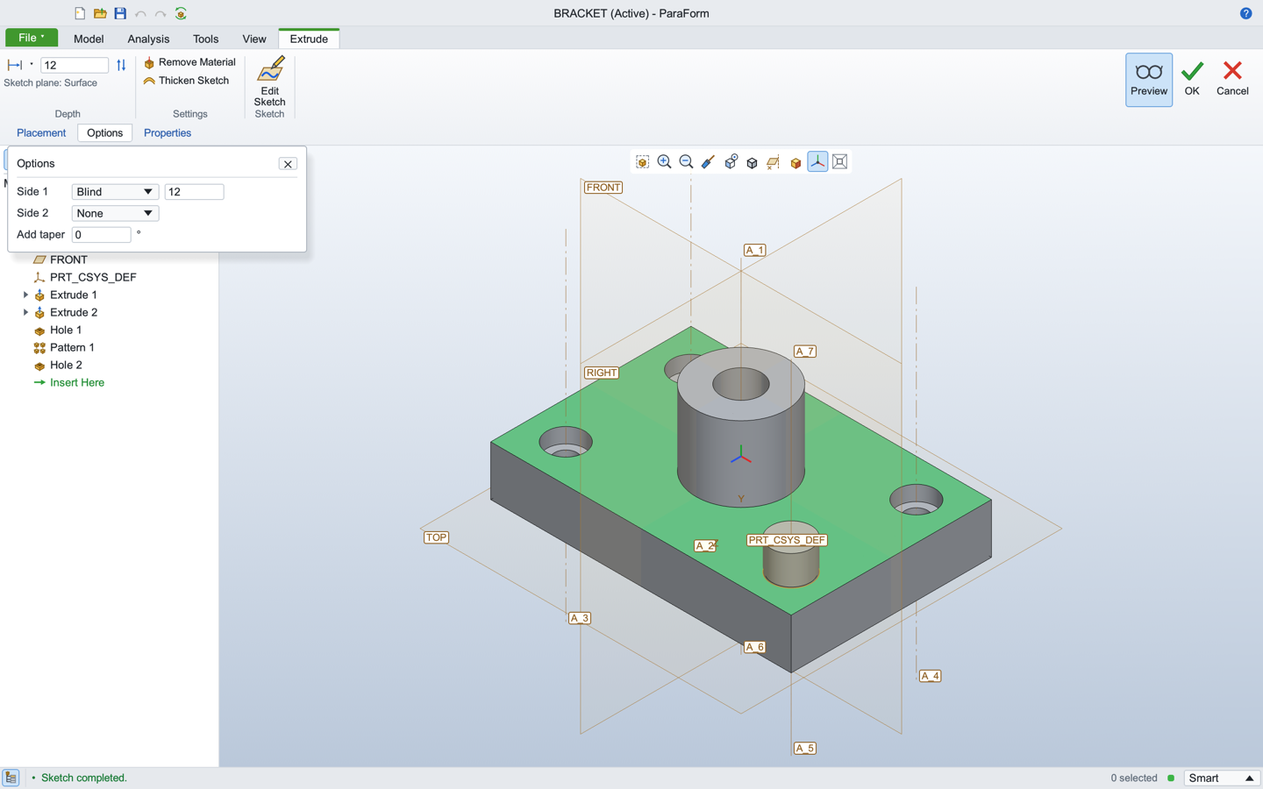
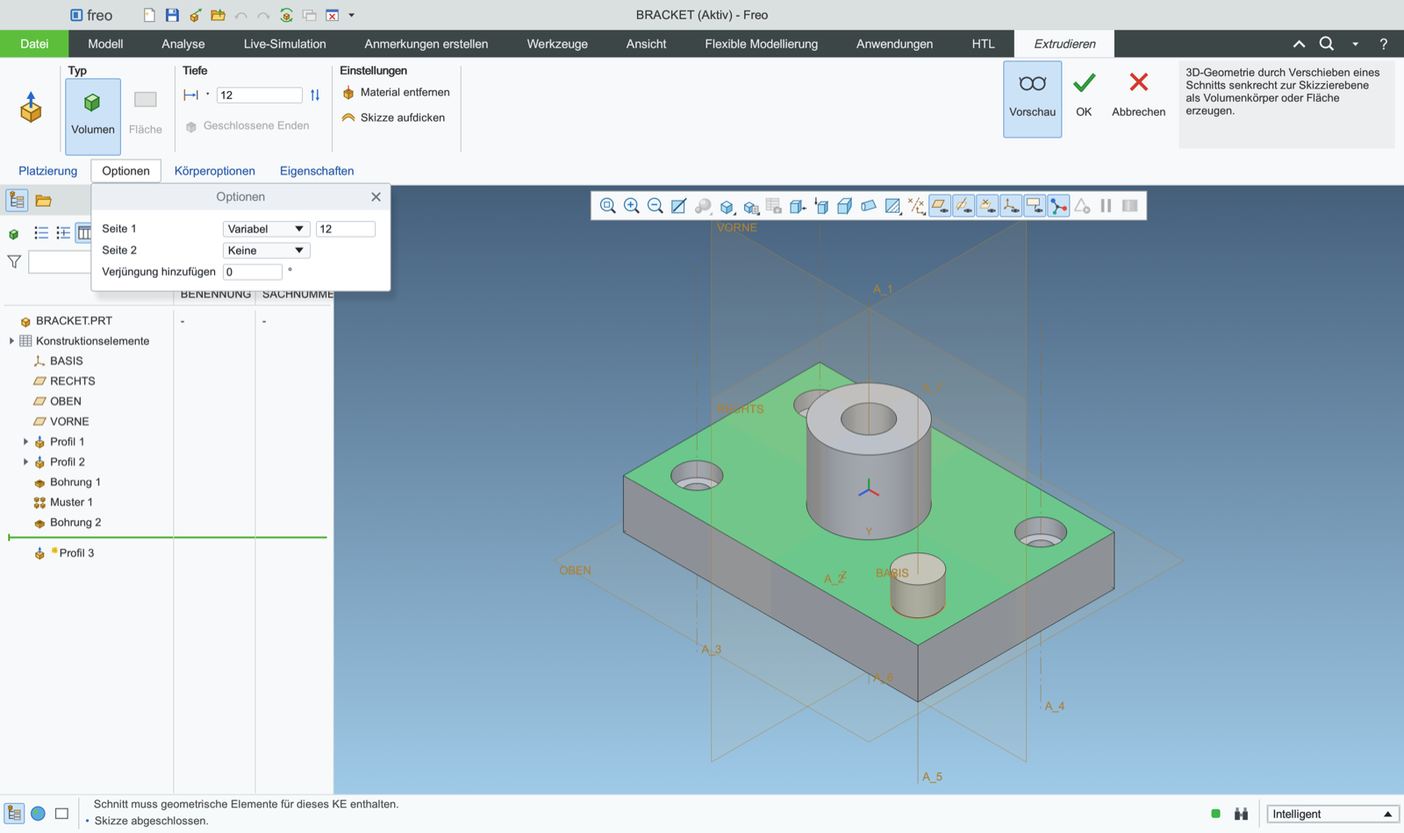
Rewrite the README and regenerate its screenshots
The README still described the first version: an English UI, no
simulation, surfaces, 3D annotations or STEP import. It now covers the
German Creo 10 interface, all feature kinds, the sketcher tools and
palette, Live-Simulation, 3D annotations, import and export formats,
and an honest scope section.

All screenshots are regenerated from the demo scenes, with new ones for
Live-Simulation, 3D annotations and the palette. The two rendered-PDF
images from the first version are removed.

diff --git a/README.md b/README.md
@@ -1,27 +1,37 @@
 # Freo — Creo-style parametric CAD for macOS (Rust)
 
-Freo is a native, history-based parametric 3D modeller for macOS modelled on the
-PTC Creo Parametric workflow: ribbon → feature dashboard → sketcher → regenerate, with a
-model tree, datum features, references, parameters and relations, assemblies built
-from placement constraints, and associative 2D drawings. It is written entirely in Rust
-(own geometry kernel, constraint solvers, hidden-line removal and OpenGL viewport on
-egui/eframe).
+Freo is a native, history-based parametric 3D modeller for macOS that follows the PTC Creo
+Parametric 10 workflow and look, with Creo's German user interface: ribbon → feature tab →
+sketcher → regenerate. It has a model tree, datum features, parameters and relations,
+assemblies built from placement constraints, associative 2D drawings, 3D annotations, a
+Live-Simulation tab and an MCP server for AI assistants.
 
-![Creo-style workspace](docs/screens/bracket.png)
+It is written entirely in Rust: its own geometry kernel, constraint solvers, hidden-line
+removal, simulation solvers, STEP reader and OpenGL viewport on egui/eframe.
 
-| Sketching in 3D (weak + strong dims) | Extrude tab with Options panel | Edit Dimensions on the model |
+![Freo workspace](docs/screens/bracket.png)
+
+| Sketching in 3D (weak + strong dimensions) | Skizzierer-Palette | Extrude tab with Options panel |
 |---|---|---|
-| ![](docs/screens/sketch.png) | ![](docs/screens/extrude.png) | ![](docs/screens/editdims.png) |
-| **File menu** | **Datum Plane dialog** | **Selection mini toolbar** |
-| ![](docs/screens/file.png) | ![](docs/screens/dialog.png) | ![](docs/screens/mini.png) |
-| **Round sets, variable radius** | **Standard (ISO/UNC) tapped hole** | **Fill pattern in a sketched region** |
-| ![](docs/screens/roundsets.png) | ![](docs/screens/stdhole.png) | ![](docs/screens/fillpattern.png) |
+| ![](docs/screens/sketch.png) | ![](docs/screens/palette.png) | ![](docs/screens/extrude.png) |
+| **Edit Dimensions on the model** | **File menu** | **Datum Plane dialog** |
+| ![](docs/screens/editdims.png) | ![](docs/screens/file.png) | ![](docs/screens/dialog.png) |
+| **Selection mini toolbar** | **Round sets, variable radius** | **Standard (ISO/UNC) tapped hole** |
+| ![](docs/screens/mini.png) | ![](docs/screens/roundsets.png) | ![](docs/screens/stdhole.png) |
+| **Fill pattern in a sketched region** | **Extrude up to the next surface** | **3D annotations** |
+| ![](docs/screens/fillpattern.png) | ![](docs/screens/tonext.png) | ![](docs/screens/annot3d.png) |
+
+### Live-Simulation
+
+| Structural (von Mises stress) | Flow around the part | Thermal |
+|---|---|---|
+| ![](docs/screens/sim_structural.png) | ![](docs/screens/sim_fluid.png) | ![](docs/screens/sim_thermal.png) |
 
 ### Assemblies
 
 ![Assembly](docs/screens/assembly.png)
 
-| Component Placement dashboard | Exploded view | Bill of Materials + mass properties | Component opened in context |
+| Component Placement tab | Exploded view | Bill of Materials + mass properties | Component opened in context |
 |---|---|---|---|
 | ![](docs/screens/placement.png) | ![](docs/screens/explode.png) | ![](docs/screens/bom.png) | ![](docs/screens/openpart.png) |
 
@@ -29,40 +39,51 @@ egui/eframe).
 
 ![Part drawing](docs/screens/drawing.png)
 
-| Assembly drawing: BOM table + balloons | Created dimensions (Annotate tab) | Published PDF |
-|---|---|---|
-| ![](docs/screens/drawing_asm.png) | ![](docs/screens/drawing_annotate.png) | ![](docs/screens/drawing_pdf.png) |
-| **Geometric Tolerance tab** | **Dimension tab: ISO fit H7** | **GD&T published to PDF** |
-| ![](docs/screens/drawing_gdt.png) | ![](docs/screens/drawing_tolerance.png) | ![](docs/screens/drawing_gdt_pdf.png) |
+| Assembly drawing: BOM table + balloons | Created dimensions | Geometric tolerances | Dimension tab: ISO fit H7 |
+|---|---|---|---|
+| ![](docs/screens/drawing_asm.png) | ![](docs/screens/drawing_annotate.png) | ![](docs/screens/drawing_gdt.png) | ![](docs/screens/drawing_tolerance.png) |
 
 ## Interface
 
-The UI follows Creo Parametric's layout and workflow:
+The UI follows Creo Parametric 10 (German). Command names below are given in English, with
+the German label where it helps to find the command.
 
-- Integrated title bar with the **Quick Access Toolbar** (New, Open, Save, Undo, Redo, Regenerate) and the "PRT0001 (Active)" title
-- Green **File** tab with a Creo-style file menu and recently opened files; **Model / Analysis / Tools / View** ribbon tabs with Creo's groups, large/small buttons and vector icons in Creo's style
-- **Contextual feature tabs** (Extrude, Revolve, Hole, Round, …) with Placement / Options / Properties slide-down panels and Preview / OK / Cancel; **dialog boxes** for Datum Plane, Axis, Point and Sketch setup
-- **Sketch tab** with Creo's Setup, Operations, Datum, Sketching, Editing, Constrain, Dimension, Inspect and Close groups; sketching happens **in the 3D graphics window** on the sketch plane, with Sketch View and sketcher display filters
-- **Weak dimensions**: sketches are always fully dimensioned automatically (light blue); adding a strong dimension or constraint replaces the corresponding weak one, and modifying a weak dimension makes it strong
-- **Navigator** with the Model Tree (RIGHT/TOP/FRONT/PRT_CSYS_DEF, expandable Section children, failed/suppressed markers, draggable Insert Here) and a Folder Browser
-- **Graphics window**: in-graphics toolbar, two-sided datum planes with tags, dash-dot axes, spin center, green selection / blue preselection, the **mini toolbar** on selection, and **double-click Edit Dimensions** with in-place value editing
-- Creo-style **status bar**: message area, regeneration status indicator, placement status, selection count and selection filter
-- Creo's **New** dialog (Part / Assembly, sub-types) and **Create Component** dialog
+- **Startseite** (home screen) before a model is open: common folders, recent files, New and Open
+- Title bar with the **Quick Access Toolbar** (New, Open, Save, Undo, Redo, Regenerate, windows, close) and the "BRACKET (Aktiv)" title
+- Green **Datei** tab with Creo's file menu, recent files and direct export; ribbon tabs **Modell, Analyse, Live-Simulation, Anmerkungen erstellen, Werkzeuge, Ansicht, Flexible Modellierung, Anwendungen** and **HTL**, with Creo's groups, large/small buttons, group overflow menus and vector icons
+- **Contextual feature tabs** (Profil/Extrude, Drehen/Revolve, Bohrung/Hole, Rundung/Round, …) with Placement / Options / Properties slide-down panels and Preview / OK / Cancel; **dialog boxes** for datum plane, axis, point, coordinate system and sketch setup
+- **Skizze** tab with Creo's Setup, Einfügen, Operationen, Bezug, Skizze, Editieren, Bedingung definieren, Bemaßung, Prüfen and Schließen groups; sketching happens **in the 3D graphics window** on the sketch plane
+- **Weak dimensions**: a sketch is always fully dimensioned automatically (light blue); a strong dimension or constraint replaces the matching weak one, and modifying a weak dimension makes it strong
+- **Navigator** with the model tree (default datums, expandable sections, failed/suppressed markers, draggable insert marker, columns, filter) and a folder browser
+- **Graphics window**: Creo's graphics toolbar (customisable by right-click), two-sided datum planes with tags, dash-dot axes, spin centre, green selection / blue preselection, the three-row **mini toolbar** next to a selection, and **double-click Edit Dimensions** with in-place value editing
+- **Status bar**: message area, regeneration status, placement status, selection count and selection filter
+- Creo's **Neu** dialog (part / assembly / drawing with sub-types), **Datei öffnen** dialog with preview and file operations, and the **Create Component** dialog
+- Drop-down menus are as wide as their text and slightly rounded
+- Flexible Modellierung and some commands on Anwendungen and HTL are shown for layout parity but greyed out (see [Scope](#scope-compared-with-creo))
 
 ## Build & run
+
+Requires macOS 11 or later and a current stable Rust toolchain.
 
 ```bash
 cargo run --release
 ```
 
-Build a double-clickable `Freo.app` (with icon and `.pfprt` document type):
+Build a double-clickable `Freo.app` (with icon and document types) in the project root:
 
 ```bash
 ./scripts/bundle.sh
 ```
 
-Open a model directly: `freo part.pfprt` / `freo asm0001.pfasm`, or drag a file onto
-the window (a part dropped onto an open assembly is assembled).
+Copy `Freo.app` to `/Applications` to install it. The bundle is not notarised; after copying,
+sign it ad hoc so macOS starts it:
+
+```bash
+codesign --force --deep -s - /Applications/Freo.app
+```
+
+Open a model directly with `freo part.pfprt` / `freo asm0001.pfasm`, from Finder, or by
+dragging a file onto the window (a part dropped onto an open assembly is assembled).
 
 ## AI assistants (MCP)
 
@@ -156,60 +177,86 @@ for all agents). It only shows up once `mcp.servers.freo` is configured. Check i
 
 ## Features
 
-**Modelling (Model tab)**
-- Default datums FRONT / TOP / RIGHT / PRT_CSYS_DEF
-- Datum plane (offset, through axis at angle), datum axis (two planes, world, normal to plane), datum point, sketch (curves)
-- Extrude: add/remove, blind / symmetric / to next / to selected / through all, second side, flip, taper (draft) angle, thicken (thin wall)
-- Revolve: add/remove, angle, symmetric, flip — axis is the sketch centerline
-- Sweep: sketched trajectory + section (section plane normal to the trajectory start), mitered corners
-- Blend: parallel blend of any number of sections with offsets
-- Hole: simple / counterbore / countersink / **standard** (ISO metric coarse M2–M24 and UNC #4-40 – 1/2-13 tables: tapped with tap drill and **cosmetic thread**, or clearance close/medium/free), blind with drill tip or through all, placed on a plane or surface
-- Round with **multiple sets**, each with its own radius or a **variable radius** (start → end); chamfer (D×D, D1×D2, angle×D) on straight and curved edges, convex and concave
-- Shell with removed surfaces, draft about a hinge plane
-- Pattern: direction (1 or 2 directions), axial, **fill** (square / diamond / triangle grid inside a sketched region, spacing, margin, rotation) and **curve** (count or spacing along a sketched curve, optionally following it); mirror selected features or all geometry
+**Modelling (Modell tab)**
+- Default datums RECHTS / OBEN / VORNE (RIGHT / TOP / FRONT) and the BASIS coordinate system
+- Datum plane (offset, through an axis at an angle), datum axis (two planes, world, normal to a plane), datum point, coordinate system, datum curve through points (spline or polyline), sketch
+- Extrude: add/remove, blind / symmetric / to next / to selected / through all, second side, flip, taper angle, thicken (thin wall), solid or surface
+- Revolve: add/remove, angle, symmetric, flip; the axis is the sketch centerline
+- Sweep: sketched trajectory + section, mitred corners; **helical sweep** (springs, threads; pitch, left/right-handed)
+- Blend: parallel blend of any number of sections with offsets, and **rotational blend**
+- Hole: simple / counterbore / countersink / **standard** (ISO metric coarse M2–M24 and UNC #4-40 – 1/2-13: tapped with tap drill and cosmetic thread, or clearance close/medium/free), blind with drill tip or through all
+- **Cosmetic thread** on a cylindrical surface, **rib** from an open sketch
+- Round with **multiple sets**, each with its own radius or a **variable radius**; **Auto Round**; chamfer (D×D, D1×D2, angle×D) on straight and curved edges, and corner chamfer
+- Shell with removed surfaces, draft about a hinge plane (also variable)
+- Pattern: direction (1 or 2 directions), axis, **fill** (square / diamond / triangle grid in a sketched region), **curve** (count or spacing along a sketched curve) and **table**; geometry pattern; mirror selected features or all geometry
+- **Surfaces (quilts)**: fill, offset, thicken, solidify, merge, trim, intersect, project, extend, split, copy, replace, boundary blend, style and freestyle
+- **Bodies**: new body, union, subtract, intersect and split
+- Copy / paste of features, user-defined features (UDF), copy geometry, shrinkwrap, family table, regeneration manager
 - Automatic axes (A_n) for holes, revolves, cylinders and patterned holes
 
 **Sketcher**
-- Line chains, corner/centre rectangle, centre/3-point circle, 3-point/centre arc, **ellipse**, **spline** (interpolating), palette polygon, fillet, chamfer, centerline, point, project, delete segment (**trims at intersections**), divide, corner, mirror, construction mode, Modify dialog, Feature Requirements
-- Snapping to points, entities, projected model edges and sketch references, optional grid snap
+- Lines (chain, tangent to two circles), rectangles (corner, slanted, centre, parallelogram), circles (centre, concentric, 3-point, 3-tangent), arcs (3-point, centre, 3-tangent, concentric, conic), ellipses (centre, axis ends), interpolating splines
+- Fillets (circular, elliptical, with or without keeping the corner as construction lines), chamfers, centerlines (also tangent), points, coordinate systems, **text** along a line with the bundled or any installed font
+- **Skizzierer-Palette**: nine tabs of ready-made shapes: polygons (3 to 20 sides), stars, C/I/L/T profiles, slots, ovals, crosses, rounded rectangles, waves, bore half-sections, dovetail, and real-size steel sections (rectangular hollow sections, L angles, U channels). Click a shape, click in the sketch, then scale and rotate it
+- **Import** of DXF, IGES and Adobe Illustrator files into the sketch
+- Offset, thicken, project model edges, delete segment (trims at intersections), divide, corner, mirror, rotate/resize, replace, cut / copy / paste, construction mode
+- Snapping to points, entities, projected model edges and sketch references, optional grid snap; a References dialog for edges, planes, axes and points
 - Automatic H/V constraints while drawing; constraints H, V, ⊥, ∥, =, tangent, coincident/point-on, midpoint, symmetric, fix
-- Dimensions: length, horizontal/vertical/aligned distance, point–line, radius, diameter, angle; inline editing with numbers or parameter expressions
-- Levenberg–Marquardt solver with live dragging, DOF readout, redundant/conflicting constraint rejection, open-end highlighting, closed-loop shading
+- Dimensions: length, horizontal/vertical/aligned distance, point–line, radius, diameter, angle, perimeter, baseline (ordinate) and reference dimensions; lockable; inline editing with numbers or parameter expressions; Modify dialog
+- Checks: overlapping geometry, intersections, branches, open ends, shaded closed loops, Feature Requirements; info on intersection point, tangency point and entity
+- Levenberg–Marquardt solver with live dragging, DOF readout and rejection of redundant or conflicting constraints
 
 **Model tree & editing**
-- Edit Dimensions (double-click on the model), Edit Definition, rename, suppress/resume, hide/show, delete with dependent children, reorder (parent/child aware), Insert Here (rollback), failed features flagged with the reason
+- Edit Dimensions (double-click on the model), Edit Definition, rename, suppress/resume, hide/show, delete with dependent children, reorder (parent/child aware), insert mode (rollback), failed features flagged with the reason
 - Undo/redo, regenerate, object-action workflow (preselect a plane/face/edge, then pick the tool) and action-object collectors
-- Parameters, relations (`H = W / 3`, functions, comments) and dimensions driven by expressions — sketch dimensions too
+- Parameters, relations (`H = W / 3`, functions, comments) and dimensions driven by expressions, sketch dimensions included
+- Werkzeuge tab: search features by name, reference viewer (parents and children), model player (replays the feature history), feature and model info, message log
 
 **Viewing & analysis**
-- Spin/pan/zoom (mouse, trackpad, pinch), standard orientations, refit, perspective
-- Shading with edges, shading, hidden line, no hidden, wireframe, transparency, appearance colours
+- Spin/pan/zoom (mouse, trackpad, pinch), standard and saved orientations, refit, perspective
+- Display styles: shading with reflections, shading with edges, shading, hidden line, no hidden, wireframe; transparency, appearance colours
 - Datum display toggles, section view through any datum plane with offset
-- Pre-selection highlighting, selection filters (smart, feature, surface, edge, datum), context menus
-- Measure (area, length, diameter, distance, angle), mass properties (volume, area, mass, COG, inertia tensor, bounding box) with material densities, model info
+- Pre-selection highlighting, selection filters, context menus
+- Measure (area, length, diameter, distance, angle), mass properties (volume, area, mass, centre of gravity, inertia tensor, bounding box) with material densities, thickness and short-edge checks, model report
+
+**Live-Simulation**
+- Four study types on the part: **structural** (linear statics), **thermal** (steady heat conduction), **modal** (natural frequencies and mode shapes) and **fluid** (flow around or through the part)
+- Constraints and loads picked on faces: fixed, displacement, frictionless, symmetry; force, moment, pressure, gravity, centrifugal, linear acceleration; temperature, convection, heat flow, heat flux; inlet, outlet, wind
+- The solver runs beside the UI on a worker thread and restarts when the model or the study changes
+- Results on the model: fringe plot with legend (von Mises stress, displacement, safety factor, temperature, heat flux, flow velocity), animated deformation with scale, stream lines, probes, and a simulation report
+- Solvers: voxel finite elements with matrix-free conjugate gradients (statics, heat, modes) and a lattice Boltzmann method (D3Q19) for flow, checked against textbook results in `tests/simulation.rs`
+
+**3D annotations (Anmerkungen erstellen)**
+- Dimensions, ordinate and reference dimensions, tolerances, notes, surface finish, datum feature symbols and datum targets, geometric tolerances, placed on annotation planes (flat to screen, FRONT, TOP, RIGHT)
+- Annotation features group them in the model tree; move, reattach, remove, clean up dimensions
+- Combination states with Creo's state tabs below the graphics window, and a model grid
 
 **Assemblies (`.pfasm`)**
-- New ▸ Assembly with ASM_RIGHT / ASM_TOP / ASM_FRONT / ASM_DEF_CSYS; **Assemble** part files (also by drag-and-drop or from the Folder Browser), **Create** a new part in the assembly, repeat instances
-- **Component Placement** dashboard: Automatic, Coincident, Distance, Angle Offset, Parallel, Normal, Default and Fix constraints between planar surfaces, cylindrical surfaces (their axes), datum planes, axes, points and straight edges; offset, Flip, constraint list panel, **Allow Assumptions**, live status (No Constraints / Partially Constrained (n DOF) / Fully Constrained / Constraints invalid)
+- New ▸ Assembly with ASM_RIGHT / ASM_TOP / ASM_FRONT / ASM_DEF_CSYS; **assemble** part files (also by drag-and-drop or from the folder browser), **create** a new part in the assembly, repeat instances
+- **Component Placement** tab: Automatic, Coincident, Distance, Angle Offset, Parallel, Normal, Default and Fix constraints between planar surfaces, cylindrical surfaces (their axes), datum planes, axes, points and straight edges; offset, flip, constraint list, **Allow Assumptions**, live status (no constraints / partially constrained (n DOF) / fully constrained / invalid)
 - Drag the component being placed to move it (⇧-drag rotates); the free degrees of freedom follow the mouse while the constraints hold
 - Placement solver: Levenberg–Marquardt over each component's rigid transform, solved in model-tree order, with rank-based DOF status; references are stored in part coordinates and follow part edits
-- Assembly model tree with placement status markers, Placement folder with the constraints and each component's features; Edit Definition, Open, Hide, Suppress, Delete (dependent constraints are removed), Assemble Another Instance
-- **Open a component** to edit its features with the rest of the assembly drawn as transparent context, then **Return to Assembly**; saving writes modified parts back to their files
+- Assembly model tree with placement status markers, the constraints and each component's features; Edit Definition, Open, Hide, Suppress, Delete, Assemble Another Instance
+- **Open a component** to edit its features with the rest of the assembly drawn as transparent context, then return to the assembly; saving writes modified parts back to their files
 - **Exploded view** with adjustable distance, **Bill of Materials** (quantities, volumes, masses, CSV export), **Global Interference**, assembly **mass properties** from each part's density, per-part colours
 
 **Drawings (`.pfdrw`)**
-- New ▸ Drawing with Creo's New Drawing dialog: default model (the part or assembly in session, or browse), template with front / top / right projection views and a pictorial view scaled to fit, or empty with format; ISO A4–A0 and ANSI A–E sheets, landscape or portrait, third- or first-angle projection
+- New ▸ Drawing with Creo's dialog: default model (the part or assembly in session, or browse), template with front / top / right projection views and a pictorial view scaled to fit, or empty with format; ISO A4–A0 and ANSI A–E sheets, landscape or portrait, third- or first-angle projection
 - Drawing format: border with zone markers and a title block (company, title, drawing number, scale, size, sheet *n* of *m*, projection symbol, drawn by, date, material) edited in Drawing Properties
-- **Layout** tab: multiple sheets, General view (saved orientations), Projection views aligned to their parent (third/first angle), Detail views (circular boundary in the parent, own scale), 2D cross-sections through a datum plane (hatched cut faces, cutting-plane line with sight arrows and letters, "SECTION A-A"), per-view scale and display style (Wireframe / Hidden / No Hidden), axes and centre marks, exploded assembly views, Lock View Movement, Open Model (edit the model in 3D, then Return to Drawing)
+- **Layout** tab: multiple sheets, general views (saved orientations), projection views aligned to their parent, detail views (circular boundary, own scale), 2D cross-sections through a datum plane (hatched cut faces, cutting-plane line with arrows and letters), per-view scale and display style, axes and centre marks, exploded assembly views, Lock View Movement, Open Model (edit in 3D, then return to the drawing)
 - Views are generated by hidden-line removal of the model (feature edges and silhouettes of curved faces, depth-tested against the facets) and follow every model change
-- **Annotate** tab: Show Model Annotations places the part's sketch dimensions, depths, pattern spacings and hole callouts (e.g. "Ø9.00 THRU, CBORE Ø15.00 x 6.00", "M10x1.5") in the view where they show true length, outside the outline; modifying a shown dimension drives the model. Created (driven) dimensions snap to vertices, edges and circles (horizontal / vertical / aligned / diameter, chosen from where you place them) and re-attach after model edits; `@D` text overrides; notes; Cleanup Dimensions; decimals and text height
-- **Dimension tolerances** in a contextual Dimension tab (opens when a dimension is selected): Nominal, Limits, Plus-Minus, ± Symmetric, Basic (boxed), Reference and **ISO 286 fits** (H, G, F, JS holes; h, g, f, js, k, n, p shafts; IT5–IT11 up to 500 mm) with stacked deviations, tolerance precision, and the general tolerance (e.g. ISO 2768-m) in the title block
-- **GD&T**: datum feature symbols (boxed letter, filled triangle on the feature edge, next free letter skipping I/O/Q), feature control frames for all 14 characteristics (straightness … total runout) with ⌀ zone, Ⓜ/Ⓛ modifiers and up to three datum references — placed under a dimension or with a leader to an edge — and ISO 1302 surface texture symbols (any process, removal required, removal prohibited) with Ra/Rz value and production method; each has its own contextual tab, and all follow model changes
-- **Table** tab: BOM table (index, part number, quantity, mass) above the title block and Create Balloons with leaders to a visible surface of each item
-- Drag views (projections slide along their parent's axis), dimensions, notes, balloons and the table; double-click to edit; undo/redo
+- **Annotate** tab: Show Model Annotations places the part's sketch dimensions, depths, pattern spacings and hole callouts in the view where they show true length; modifying a shown dimension drives the model. Created (driven) dimensions snap to vertices, edges and circles and re-attach after model edits; `@D` text overrides; notes; Cleanup Dimensions; decimals and text height
+- **Dimension tolerances** in a contextual Dimension tab: nominal, limits, plus-minus, symmetric, basic, reference and **ISO 286 fits** (H, G, F, JS holes; h, g, f, js, k, n, p shafts; IT5–IT11 up to 500 mm), tolerance precision, and the general tolerance (e.g. ISO 2768-m) in the title block
+- **GD&T**: datum feature symbols, feature control frames for all 14 characteristics with ⌀ zone, Ⓜ/Ⓛ modifiers and up to three datum references, and ISO 1302 surface texture symbols; each has its own contextual tab, and all follow model changes
+- **Table** tab: BOM table (index, part number, quantity, mass) above the title block and balloons with leaders
+- Drag views, dimensions, notes, balloons and the table; double-click to edit; undo/redo
 - **Publish** tab: vector **PDF** (all sheets), **DXF** (R12, layers per line type) and **SVG**
 
-**Files**: native `.pfprt` / `.pfasm` / `.pfdrw` (JSON, full history; a drawing also embeds its model), export **STEP AP214** (faceted B-rep, one body per component), STL (binary/ASCII) and OBJ.
+**Files**
+- Native `.pfprt` / `.pfasm` / `.pfdrw` (JSON with the full history; a drawing also embeds its model)
+- **Import**: STEP AP203 / AP214 / AP242 (B-rep with analytic and B-spline surfaces, tessellated; assemblies are flattened), STL and OBJ, opened as a part or inserted into a part as an import feature
+- **Export**: STEP AP214 (faceted B-rep, one body per component), STL (binary/ASCII), OBJ, PLY, VRML 2.0, glTF 2.0 and 3MF
+- Native Creo files (`.prt`, `.asm`, `.drw`, with or without version number) are recognised and listed, but their geometry is in PTC's closed format and cannot be read; Freo explains this and points to a STEP export of the same model
 
 ## Controls
 
@@ -223,7 +270,10 @@ for all agents). It only shows up once `mcp.servers.freo` is configured. Check i
 | Edit definition | double-click a tree item, or the mini toolbar |
 | OK / cancel feature or placement | Enter / Esc |
 | Move / rotate the component being placed | drag / ⇧-drag |
+| New / open | ⌘N / ⌘O |
 | Undo / redo / regenerate | ⌘Z / ⇧⌘Z / ⌘G |
+| Sketcher: line chain / corner rectangle | L / R |
+| Sketcher: select all / toggle construction | ⌘⌥A / ⇧G |
 
 ## Architecture
 
@@ -231,12 +281,16 @@ for all agents). It only shows up once `mcp.servers.freo` is configured. Check i
 src/kernel   math, BSP-tree CSG, ear-clipping triangulation, topology (welding, T-junction
              repair, faces, edge chains), feature solid builders, planar-patch offsetting,
              hidden-line removal
-src/sketch   sketch model, profile/loop extraction, constraint solver
-src/model    features & references, expression evaluator, regeneration engine, thread
-             tables, assemblies (placement constraints, solver, merged display, BOM),
-             drawings (sheets, views, dimensions, tables, format)
-src/app      controller, OpenGL renderer, camera, picking, sketcher UI, dashboards,
-             ribbon/tree/status, dialogs, export & mass properties, demo scenes
+src/sketch   sketch model, profile/loop extraction, constraint solver, text outlines,
+             DXF / IGES / Illustrator import, the sketcher palette shapes
+src/model    features & references, expression evaluator, regeneration engine, surfaces,
+             thread and tolerance tables, STEP import, simulation studies, assemblies
+             (placement constraints, solver, merged display, BOM), drawings
+src/sim      Live-Simulation solvers: voxel mesh, finite elements (statics, heat, modes),
+             lattice Boltzmann flow, and the study runner
+src/app      controller, OpenGL renderer, camera, picking, sketcher UI, feature tabs,
+             ribbon / tree / status bar, dialogs, 3D annotations, Live-Simulation UI,
+             assembly and drawing modes, export & mass properties, demo scenes
 src/mcp.rs   MCP server for AI assistants (stdio JSON-RPC, tools over model/regen/export)
 ```
 
@@ -248,15 +302,30 @@ regeneration, so downstream features follow upstream dimension changes.
 ```bash
 cargo test                                   # unit + end-to-end workflow tests
 cargo test --test mcp_server                 # MCP server driven over stdin/stdout
+cargo test --test simulation                 # solvers against textbook results
 cargo run --release --bin kernel_demo -- out # regenerate sample parts and render PNGs
-FREO_DEMO=bracket FREO_SHOT=shot.png FREO_EXIT=1 cargo run --release   # app screenshot
+cargo run --release --example stepcheck -- <folder>   # import every STEP file in a folder
+```
+
+Documentation screenshots come from scripted demo scenes (`src/app/demo.rs`):
+
+```bash
+FREO_DEMO=bracket FREO_SHOT=shot.png FREO_EXIT=1 cargo run --release
+FREO_DEMO=sim:structural FREO_SHOT=sim.png FREO_EXIT=1 cargo run --release
+FREO_DEMO=sketch FREO_DEMO_POPUP=palette:8 FREO_SHOT=palette.png FREO_EXIT=1 cargo run --release
 ```
 
 ## Scope compared with Creo
 
-Freo reimplements the core part-modelling, assembly and drawing workflow. It does not
-include Creo's sheet metal, surfacing, simulation, mechanisms, 3D annotations (MBD) or STEP/IGES import, and
-its kernel is polyhedral (curved surfaces are faceted, so STEP export is a faceted B-rep and
-drawing views of curved surfaces show their facets' silhouettes) rather than an exact NURBS
-B-rep.
-"Creo" is a trademark of PTC Inc.; Freo is an independent project and is not affiliated with PTC.
+Freo reimplements the core part-modelling, assembly, drawing, annotation and live-simulation
+workflow. It does not include Creo's sheet metal, mechanisms, mould and weld applications or
+flexible modelling; the Flexible Modellierung tab and some Anwendungen and HTL commands are
+shown greyed out. Native Creo files cannot be read (use STEP).
+
+The kernel is polyhedral: curved surfaces are faceted, so STEP export is a faceted B-rep,
+imported STEP geometry is a tessellated import feature, and drawing views of curved surfaces
+show their facets' silhouettes, rather than an exact NURBS B-rep. Live-Simulation works on a
+voxel mesh and is meant for quick design feedback, not for certification.
+
+Freo is MIT-licensed (see `Cargo.toml`). "Creo" is a trademark of PTC Inc.; Freo is an independent
+project and is not affiliated with PTC.
